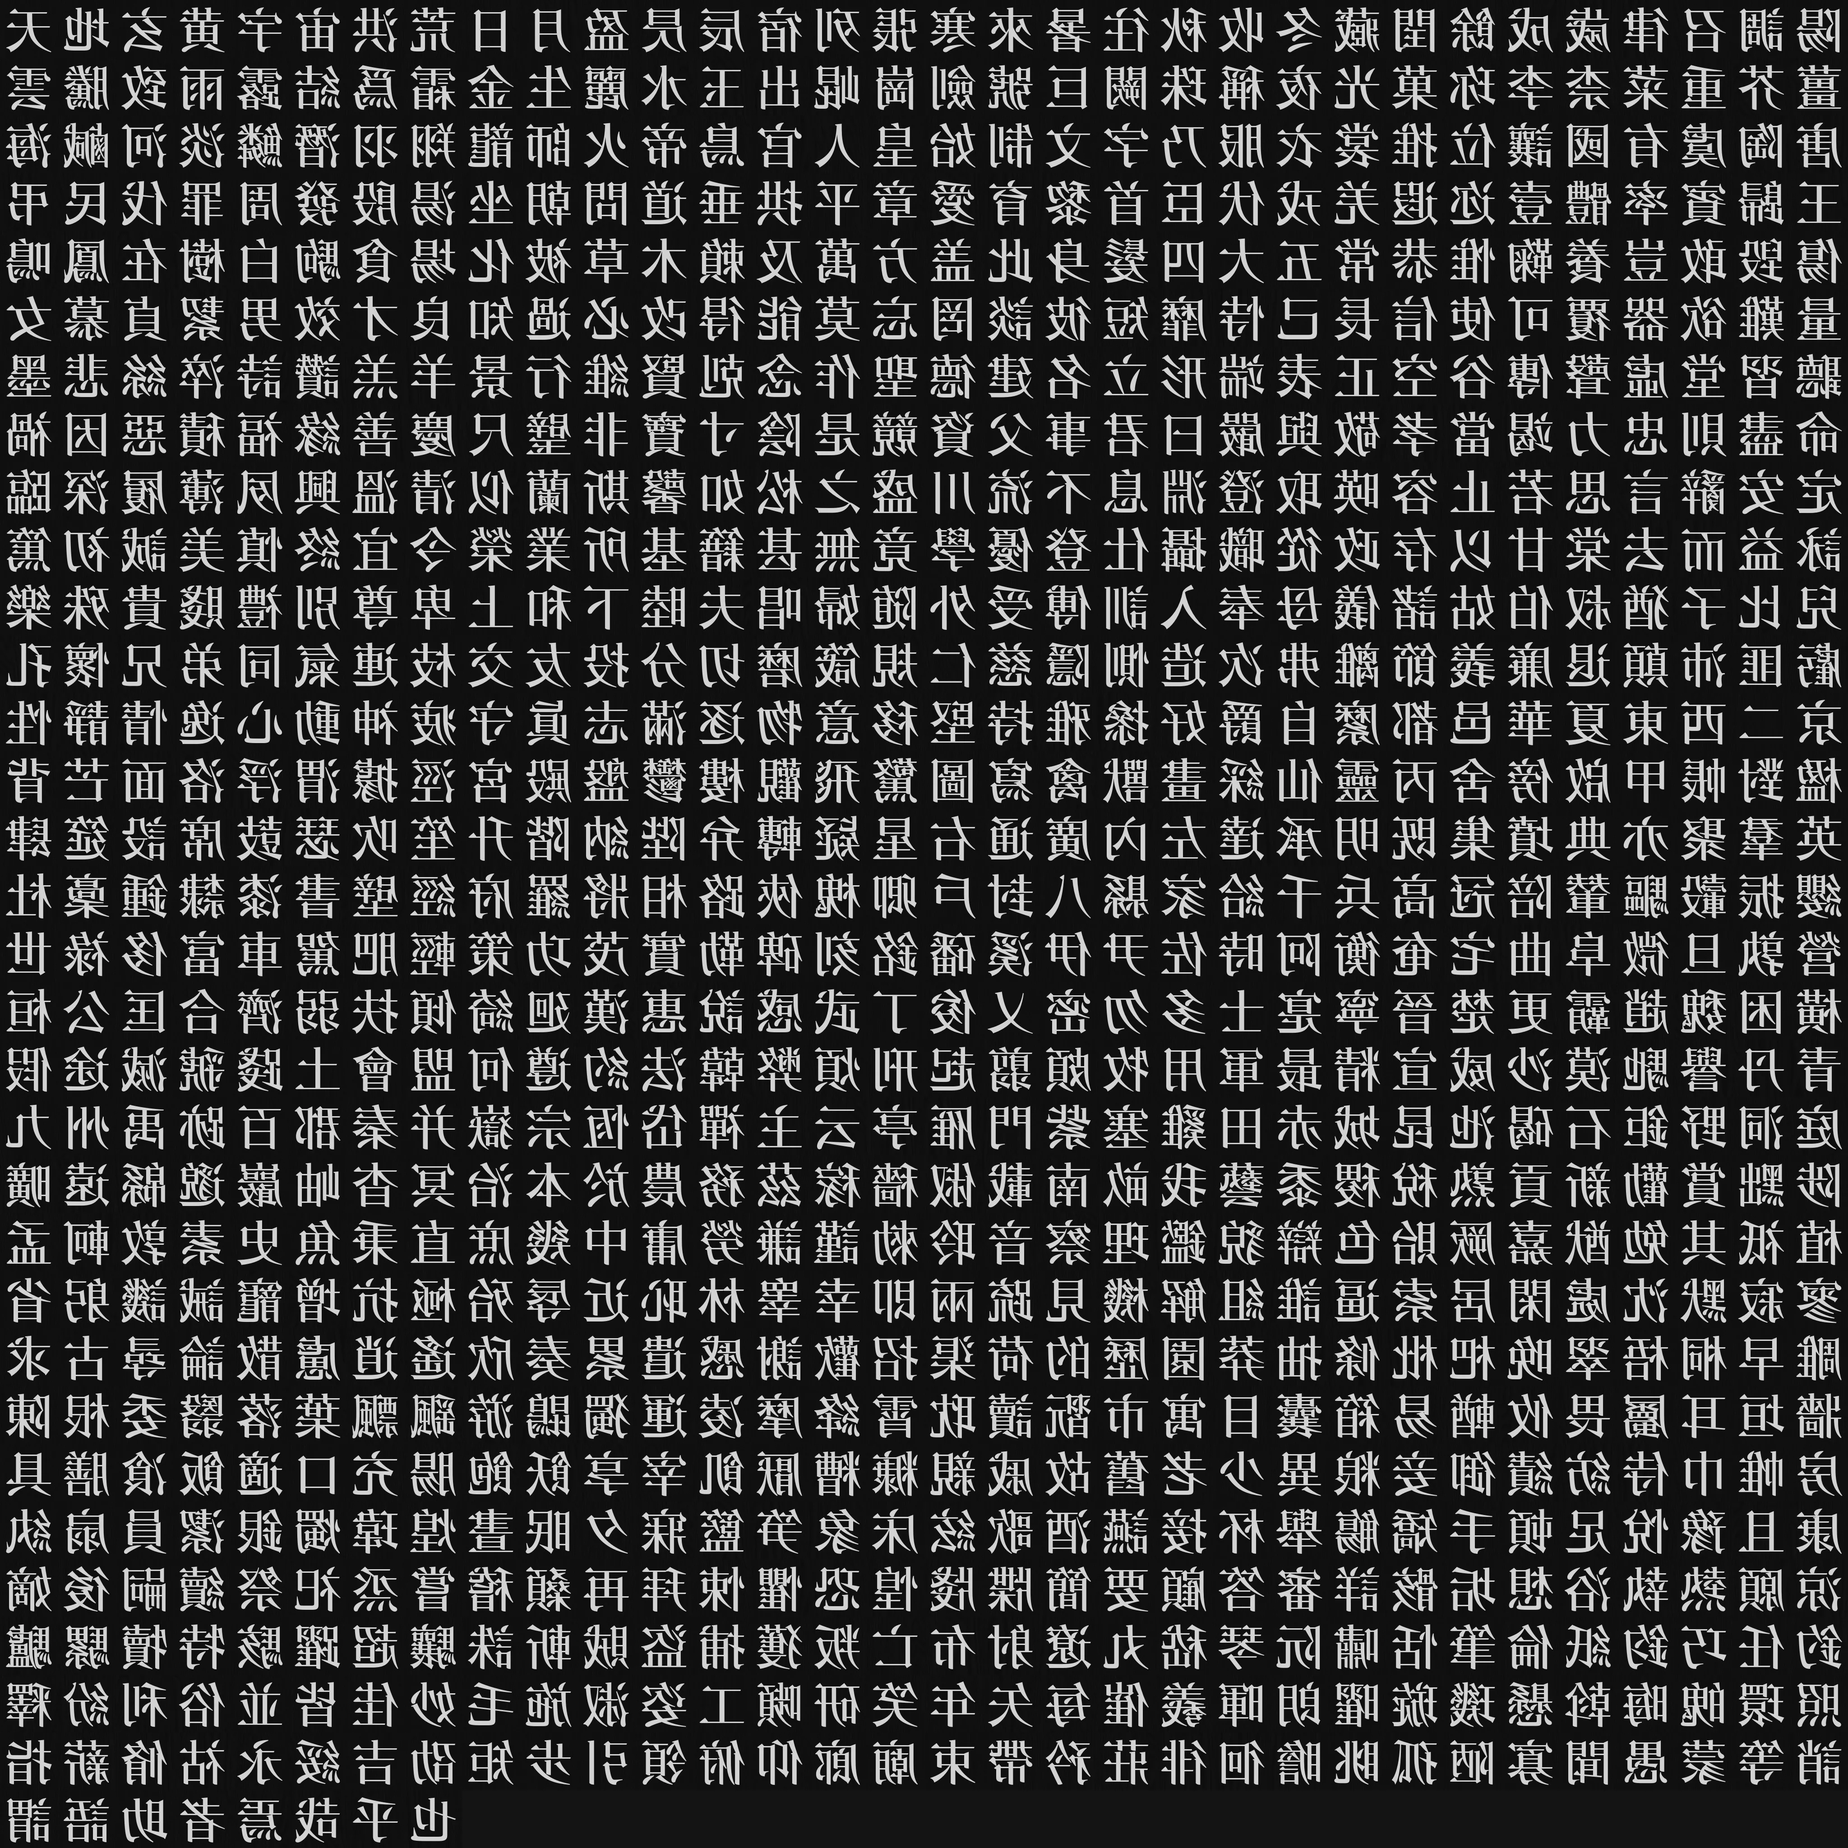
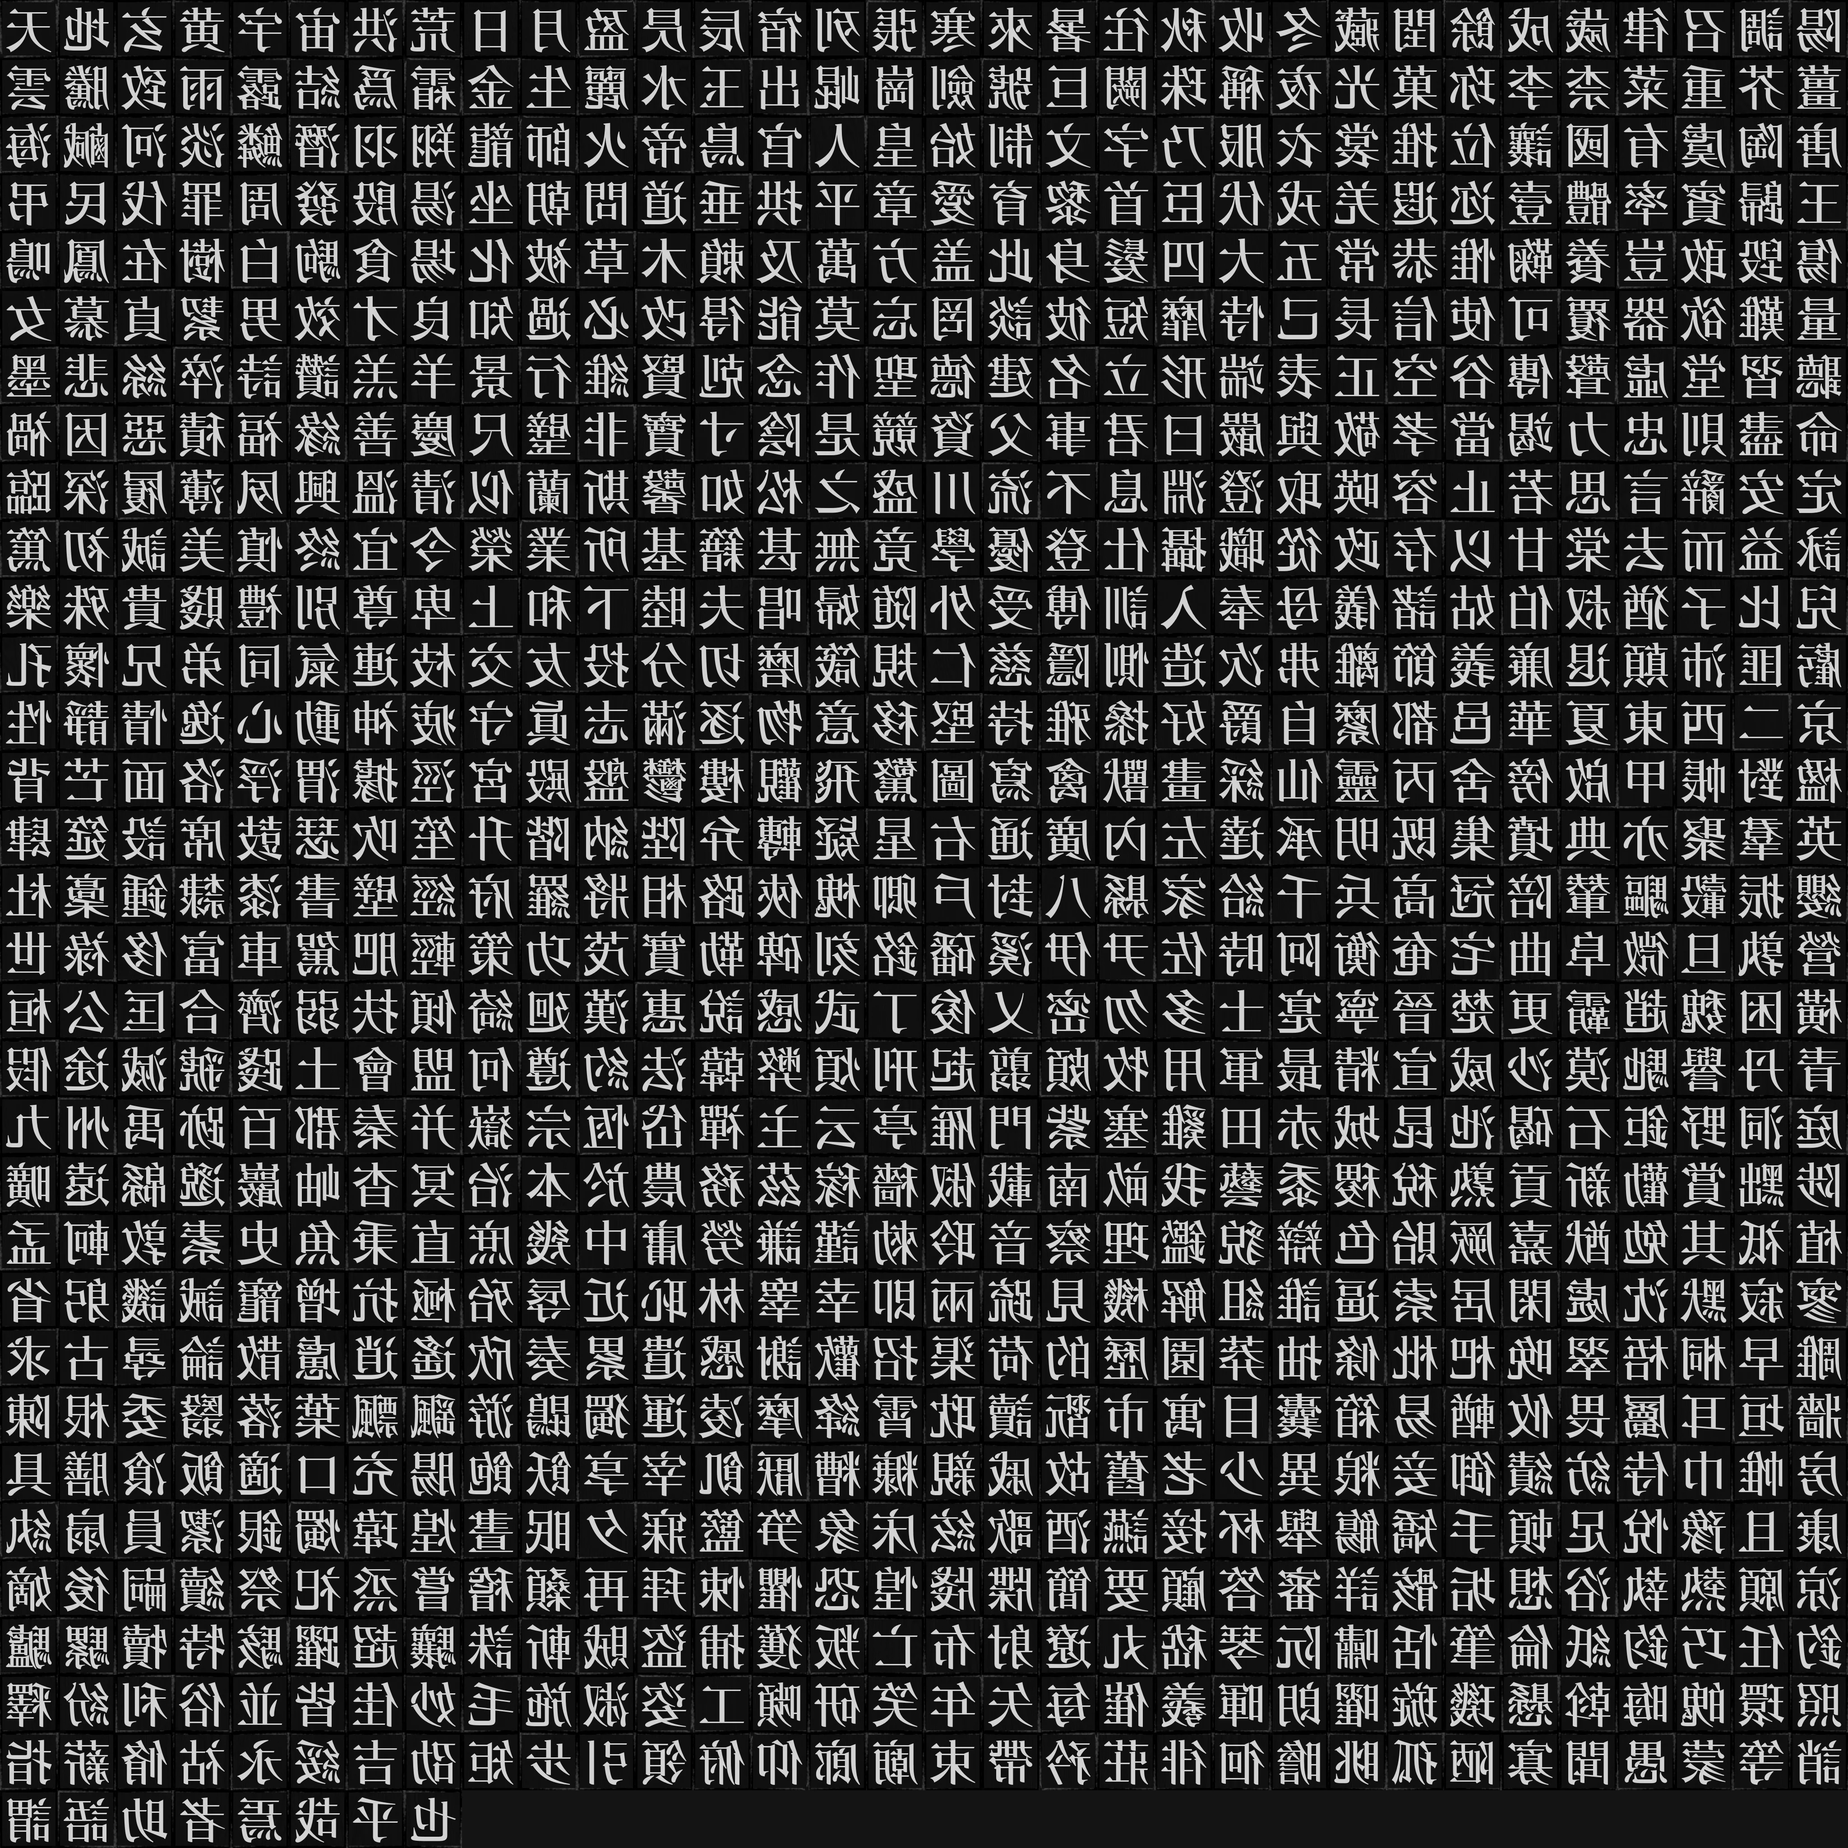
polish: trial photographed worn type edges and fix mobile lift lifecycle

diff --git a/src/features/book/BookTypeField.tsx b/src/features/book/BookTypeField.tsx
@@ -28,6 +28,9 @@ export function BookTypeField() {
       owner.current?.point((event.clientX - r.left) / r.width, (event.clientY - r.top) / r.height);
     };
     const leave = () => owner.current?.leave();
+    const pointerLeave = (event: PointerEvent) => {
+      if (event.pointerType !== 'touch') leave();
+    };
     const down = (event: PointerEvent) => {
       if (event.pointerType === 'touch') touch = { x: event.clientX, y: event.clientY };
     };
@@ -51,7 +54,7 @@ export function BookTypeField() {
       leave();
     };
     root.addEventListener('pointermove', move, { passive: true });
-    root.addEventListener('pointerleave', leave);
+    root.addEventListener('pointerleave', pointerLeave);
     root.addEventListener('pointerdown', down, { passive: true });
     root.addEventListener('pointerup', up, { passive: true });
     root.addEventListener('pointercancel', cancel);
@@ -83,7 +86,7 @@ export function BookTypeField() {
       owner.current = null;
       delete (element as HTMLCanvasElement & { typeScene?: TypeFieldScene }).typeScene;
       root.removeEventListener('pointermove', move);
-      root.removeEventListener('pointerleave', leave);
+      root.removeEventListener('pointerleave', pointerLeave);
       root.removeEventListener('pointerdown', down);
       root.removeEventListener('pointerup', up);
       root.removeEventListener('pointercancel', cancel);

diff --git a/src/features/book/typeFieldScene.ts b/src/features/book/typeFieldScene.ts
@@ -122,6 +122,7 @@ export async function createTypeFieldScene(
     [20, 19, 0.55],
   ])
     base[c * rows + r] = h;
+  const restPose = base.slice();
   for (let i = 0; i < count; i++) {
     color.setHSL(0.085, 0.18, 0.67 + ((i * 37) % 11) / 70);
     bodies.setColorAt(i, color);
@@ -242,9 +243,8 @@ export async function createTypeFieldScene(
       const x = (upper.x + 1) / 2,
         y = (1 - upper.y) / 2;
       locked[i] = y < boundaryAt(x) ? 1 : 0;
-      if (locked[i]) {
-        base[i] = targets[i] = lifts[i] = 0;
-      }
+      base[i] = locked[i] ? 0 : restPose[i];
+      targets[i] = lifts[i] = base[i];
     }
 
     draw();

diff --git a/src/features/book/type-home.css b/src/features/book/type-home.css
@@ -180,3 +180,20 @@
     padding-inline: 20px;
   }
 }
+
+/* Keep the same photographic focus falloff as the supplied homepage reference. */
+:is(.book-site-home, .type-home-ghost) .book-type-landscape::after {
+  content: '';
+  position: absolute;
+  inset: 0;
+  pointer-events: none;
+  backdrop-filter: blur(2.4px);
+  mask-image: linear-gradient(
+    to bottom,
+    #000 0%,
+    #000b 22%,
+    transparent 52%,
+    transparent 87%,
+    #0007 100%
+  );
+}

diff --git a/scripts/build-type-field.py b/scripts/build-type-field.py
@@ -1,7 +1,7 @@
 """Build the homepage forme from real font outlines and photographic wood."""
 from pathlib import Path
 import json,sys
-from PIL import Image,ImageDraw,ImageFont,ImageOps,ImageFilter
+from PIL import Image,ImageDraw,ImageFont,ImageOps,ImageFilter,ImageEnhance
 from fontTools.ttLib import TTFont
 root=Path(sys.argv[1]); out=root/'public/type-study/materials'
 text=(root/'design/type-study/source/qianziwen-text.txt').read_text(encoding='utf-8').strip().replace('𡓜','牆')
@@ -11,6 +11,16 @@ cmap=TTFont(fontpath).getBestCmap()
 missing=[c for c in text if ord(c) not in cmap]
 assert not missing,repr(missing)
 font=ImageFont.truetype(str(fontpath),106)
+# A narrow physical bevel from the approved real type photograph. The inner
+# letter is never pasted into the new face; all glyphs below still come from Noto.
+old=Image.open(root/'design/type-study/source/old-type-photo-reference.jpg')
+quad=(1020,761,1100,875,1220,810,1140,700)
+old_sort=old.transform((512,512),Image.Transform.QUAD,quad,Image.Resampling.BICUBIC)
+edge_strip=ImageOps.grayscale(old_sort.crop((18,443,438,455)))
+edge_strip=ImageOps.autocontrast(edge_strip,cutoff=2)
+edge_source={'source':'https://unsplash.com/photos/close-up-of-antique-wooden-letterpress-type-blocks-JzcEdsEy1hg','author':'Declan Sun','license':'Unsplash License','quad':quad,'strip':[18,443,438,455],'use':'Only physical edge pixels and ink wear; no source glyph shape','userDecision':'Accepted as material candidate, 2026-11-01'}
+(root/'design/type-study/source/old-type-edge-source.json').write_text(json.dumps(edge_source,ensure_ascii=False,indent=2)+'\n',encoding='utf-8')
+
 wood=Image.open(out/'wood-matte.webp').convert('RGB')
 atlas=Image.new('RGB',(4096,4096),'#35251b'); height=Image.new('L',(4096,4096),20)
 for i,c in enumerate(text):
@@ -18,12 +28,22 @@ for i,c in enumerate(text):
  patch=wood.crop(((i*47)%800,(i*83)%800,(i*47)%800+128,(i*83)%800+128))
  grey=ImageOps.grayscale(patch)
  dark=ImageOps.colorize(grey,'#211911','#73583b')
- face=ImageOps.colorize(grey,'#9a784d','#e8d0a0')
+ face=ImageOps.colorize(grey,'#a9916c','#eadab5')
+ start=(i*37)%180; row=(i%3)*2
+ strip=edge_strip.crop((start,row,start+240,row+8))
+ strip=strip.transpose(Image.Transpose.FLIP_LEFT_RIGHT) if i%2 else strip
+ strip=strip.resize((128,5),Image.Resampling.LANCZOS)
+ edge=ImageOps.colorize(strip,'#1e160f','#ad9670')
+ edge_height=strip.point(lambda v:int(v*.25))
+ dark.paste(edge,(0,123));dark.paste(edge.transpose(Image.Transpose.ROTATE_180),(0,0))
+ dark.paste(edge.transpose(Image.Transpose.ROTATE_90),(0,0));dark.paste(edge.transpose(Image.Transpose.ROTATE_270),(123,0))
  glyph=Image.new('L',(128,128));d=ImageDraw.Draw(glyph);d.text((64,60),c,font=font,anchor='mm',fill=255)
  glyph=ImageOps.mirror(glyph)
  dark.paste(face,(0,0),glyph)
  atlas.paste(dark,(x,y))
  relief=grey.point(lambda v: 12+int(v*.12))
+ relief.paste(edge_height,(0,123));relief.paste(edge_height.transpose(Image.Transpose.ROTATE_180),(0,0))
+ relief.paste(edge_height.transpose(Image.Transpose.ROTATE_90),(0,0));relief.paste(edge_height.transpose(Image.Transpose.ROTATE_270),(123,0))
  relief.paste(210,(0,0,128,128),glyph)
  height.paste(relief,(x,y))
 atlas.save(out/'qianziwen-type-atlas.webp',quality=88)

diff --git a/docs/TYPE_HOME_AUDIT_2026-11-01.md b/docs/TYPE_HOME_AUDIT_2026-11-01.md
@@ -1,0 +1,29 @@
+# 活字首页技术审查 · 2026-11-01
+
+范围：codex/type-preview整屏首页、手机升降、原选章标题接棒与返回清理；不是正式站全站审查。实拍边缘是用户认可备选的试用，最终审美尚未定稿。本轮自审与实际浏览器核对，不冒用以前子代理评分。
+
+## 结论
+实现回到用户要求的首页构图，素材介绍页已撤销。没有长城石墙或山体图片，只使用实拍城垛透明轮廓。真实字体、原字序、镜像和材质来源可追溯。实际覆盖流程未复现未解决P0/P1。
+
+| 维度 | 分数 | 实际依据和限制 |
+|---|---:|---|
+| Accessibility | 3/4 | DOM文字与真实链接、焦点和暂停保留；减少动态active=0且无待执行帧，背景装饰不进入读屏；未做完整读屏/WCAG验收。 |
+| Performance | 3/4 | 1000实例、按需帧、DPR上限、无React逐帧状态，进入栏目释放场景；4K材质首载仍较大，见P2。 |
+| Theming | 3/4 | 用户指定米白/深木/宋体，目录与正文原样；部分新字号和物理材质色尚未统一记录到全局设计标尺。 |
+| Responsive | 3/4 | 1440/768/390/320无横溢出；合成手机轻点15块响应，回落后0活动/0待执行帧；合成滑动scrollY=104。真机、Safari与浏览器原生缩放未验收。 |
+| Implementation Integrity | 4/4 | 拒绝伪汉字和生成长城；实拍/字库/修改坐标/许可保留，未改公共数据或读者正文；快照和场景释放实测。 |
+| **合计** | **16/20 · Good** | 限已测试范围，不代表最终视觉确认或全程60fps。 |
+
+## Findings
+- **[P2] 4K字面与高度图首载较大**：src/features/book/typeFieldScene.ts及public/type-study/materials。彩色约2.8MB、高度约1.8MB，静态图先显示，WebGL就绪后接替；慢网仍可能等候。材质确认后可用手机2K版本和更小高度图，不能用模糊伪字替代。建议 `$impeccable optimize`。
+- **[P3] 字号/物理材质色仍为局部标尺**：type-home.css与场景材质；后续 `$impeccable document` 整理，仅限新首页，不借机改变原阅读风格。
+- Impeccable实际渲染检测仅cream-palette主告警。米白是用户明确指定，人工复核后保留，不通过忽略颜色或换色制造“零告警”。源码字体层级跨JS/CSS入口的静态误报不替代实际76px/约29px测量。
+
+## 证据
+- `.artifacts/type-home-worn-final-check.log`：完整check 119/119、类型/ESLint/前端/Functions/导出通过；最终小修后以最新日志为准。
+- `type-home-prod-qa.json`：生产构建无pageerror；减少动态0活动/无帧；鼠标14个邻域字模响应；到达章节0残留画布/ghost且main非inert。
+- `type-home-touch-fixed.json`：修复触摸pointerleave过早取消后，轻点15块响应，结束0活动/无帧。旧active=0结果明确保留为失败证据。
+- `type-home-touch-fallback.json`：无WebGL显示同场景静态图；合成原生滑动未被阻断。不是物理真机。
+- `type-home-resize-qa.json`：桌面→手机→桌面恢复同一静止字模构图的实际像素比较。
+
+尚未验收：低端真机持续帧率、长期显存、Safari/Firefox、读屏、原生200%缩放、所有私人工作台；不将上述范围写成通过。材质试用的最终视觉需用户看新站反馈。后续收尾顺序：`$impeccable optimize`（若素材确认需要）→`$impeccable polish`。

diff --git a/public/type-study/licenses/MATERIALS.md b/public/type-study/licenses/MATERIALS.md
@@ -1,6 +1,6 @@
 # 活字首页素材说明
 
-当前是独立首页原型，保留用户所给的整屏构图。木模做旧仍在纪录片选材阶段，未宣称最终视觉已获确认。旧版和正式站不更新。
+当前是独立首页原型，保留用户所给的整屏构图。用户已认可Declan Sun旧活字实拍作为取材备选，本轮试用其磨损细边与积墨，未宣称最终视觉定稿。旧版和正式站不更新。
 
 - 长城原图：https://commons.wikimedia.org/wiki/File:The_Great_Wall_of_China_at_Jinshanling-edit.jpg 。摄影 Severin.stalder，Brandmeister调色；CC BY-SA 3.0：https://creativecommons.org/licenses/by-sa/3.0/ 。原图与派生轮廓同许可，和软件许可分开。原件和前景城垛像素坐标在 design/type-study/source，页面只用羽化轮廓，不显示长城石墙或山体。
 - 当前临时木纹：Poly Haven Wood Table 001，https://polyhaven.com/a/wood_table_001 ，CC0：https://polyhaven.com/license 。摄影木纹有调色、去光泽；不冒称实拍古活字。用户要求后续用纪录片旧字模边框改进，尚待确定。
@@ -15,3 +15,9 @@
 - 《了不起的匠人》第12集《东源村的修谱师》：尚在核对可用特写，报道照片不直接作为最终贴图。
 
 生成草图、被用户否定的博物馆照片、人物/字幕/风景视频帧均未作为正式首页材质。
+
+## 本轮实拍做旧试用
+
+2026-11-01用户回复“这张质感可以，作为取材备选”。来源：https://unsplash.com/photos/close-up-of-antique-wooden-letterpress-type-blocks-JzcEdsEy1hg ，摄影Declan Sun；页面列出SONY ILCE-7RM5，2026-04-16发布；使用Unsplash License：https://unsplash.com/license ，不是CC0，也不是纪录片截帧。
+
+取材原件为2000px下载版本，保存在design/type-study/source/old-type-photo-reference.jpg；原图坐标、透视四边形与细边裁切在old-type-edge-source.json。只取真实磨损边缘的窄条与积墨明暗，转换为深木色，不复制源照片中的旧字形。字身摄影木纹仍来自Poly Haven；新字面仍由Noto真实字体排成。派生纹理不冒称整张古活字照片，也不把Unsplash照片混标为CC0或软件MIT。

diff --git a/docs/TYPE_HOME_PREVIEW.md b/docs/TYPE_HOME_PREVIEW.md
@@ -31,3 +31,9 @@
 - 《了不起的匠人》第12集《东源村的修谱师》：浙江在线2016报道，候选；报道照片有水印，只作参考，未作正式材质。
 
 生产构建补测：减少动态已等待media事件，active=0、framePending=false；鼠标邻域14个字模响应，最大约0.99字宽；章节到达0画布/ghost且main非inert。证据type-home-prod-qa.json。
+
+## 实拍磨损试用与手机修复
+用户已将Declan Sun的高清旧活字实拍确认为取材备选。现只取约5px纹理细边与积墨明暗，保持新宋体字形和原构图；不是纪录片截帧，原件、许可和裁切坐标均保留。此为试用版，不能等同最终视觉确认。轻微景深跟随参考图，不影响目录。
+
+合成手机试验曾发现pointerup紧接touch pointerleave，导致回落立即覆盖升起。已将触摸离开与鼠标离开分开，保留700ms轻点脉冲；拖动取消仍走原生滚页。无WebGL已实测同场景静态图显示，原生合成滑动scrollY=104。原型首次手机轻点结果active=0为失败证据，不冒充通过；修复后需以最新QA结果为准。
+补测通过：手机轻点15个邻域字模响应，脉冲结束active=0/framePending=false；桌面→手机→桌面静止构图的SHA256完全一致。最终完整检查见type-home-release-check.log。用户认可的实拍磨损材质作为本轮试用，仍不是最终审美定稿。新站独立地址 https://codex-type-preview.social-commons.pages.dev/，正式与旧预览不更新。
